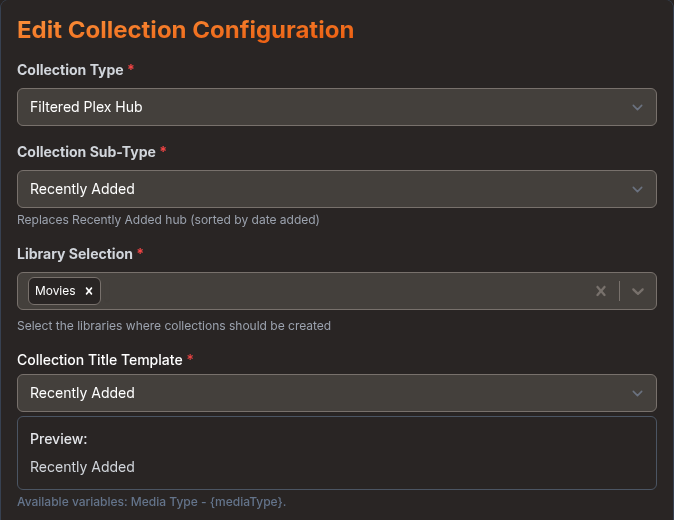
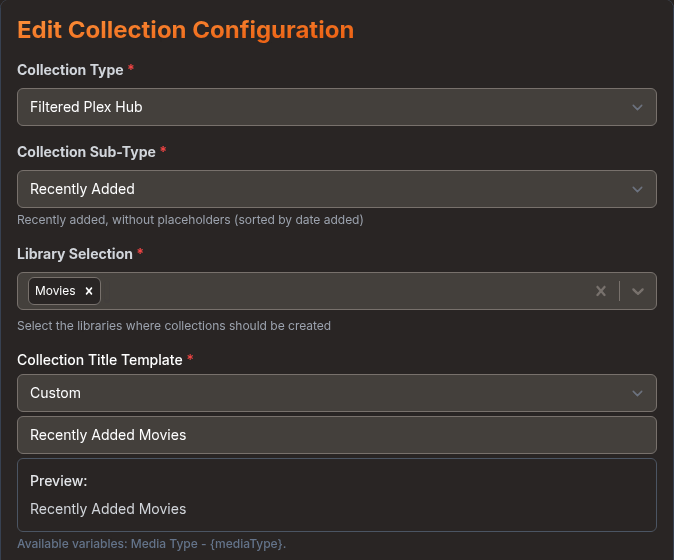
Collections: intended behaviour after the collections sweep (shuffle at end of sync, Target User scope, separator uploads, date-range rules, TV Recently Released, poster rebuild triggers); new filtered hub screenshot

Changed region(s): [[0.0, 0.0308, 0.997, 0.9846]]

diff --git a/docs/Collections.md b/docs/Collections.md
@@ -13,18 +13,20 @@ Collection features added in this fork. For the base collection behaviour, see t
 
 | Preset | Source | Media | Max Items |
 |--------|--------|-------|-----------|
-| Trending Movies Today | TMDB | Movies | 20 |
-| Trending TV Today | TMDB | TV | 20 |
-| TMDB Top Rated Movies | TMDB | Movies | 50 |
-| TMDB Top Rated TV | TMDB | TV | 50 |
-| IMDb Top 250 | IMDb | Movies | 250 |
-| IMDb Most Popular Movies | IMDb | Movies | 30 |
-| IMDb Most Popular TV | IMDb | TV | 30 |
-| Upcoming Movies | Coming Soon | Movies | 30 |
-| Upcoming TV | Coming Soon | TV | 30 |
-| Trakt Trending Movies | Trakt | Movies | 20 |
-| Trakt Trending TV | Trakt | TV | 20 |
-| Netflix Top 10 Movies | Networks | Movies | 10 |
+| Trending Movies Today | TMDB Lists | Movies | 20 |
+| Trending TV Today | TMDB Lists | TV | 20 |
+| TMDB Top Rated Movies | TMDB Lists | Movies | 50 |
+| TMDB Top Rated TV | TMDB Lists | TV | 50 |
+| IMDb Top 250 | IMDb Lists | Movies | 250 |
+| IMDb Most Popular Movies | IMDb Lists | Movies | 30 |
+| IMDb Most Popular TV | IMDb Lists | TV | 30 |
+| Upcoming Movies | Coming Soon (TMDB Coming Soon) | Movies | 30 |
+| Upcoming TV | Coming Soon (TMDB Coming Soon) | TV | 30 |
+| Trakt Trending Movies | Trakt Lists | Movies | 20 |
+| Trakt Trending TV | Trakt Lists | TV | 20 |
+| Netflix Top 10 Movies | Networks Top 10 | Movies | 10 |
+
+Applying a preset selects only libraries that match its media type: Movies libraries for the Movies presets, TV libraries for the TV ones.
 
 Presets turn on **Server Owner Home** and **Library Recommended**, with **Users Home** left off. Coming Soon presets also turn on placeholder creation. Trakt presets stay hidden until you've configured Trakt credentials. You can edit every field after choosing a preset.
 
@@ -51,15 +53,17 @@ The **Library Values** panel lists every value found in that library. Everything
 - **Exclude mode** (the default): untick anything you don't want.
 - **Include mode**: click **Select None**, then tick only the values you want. The panel changes to **Creating only checked**.
 
-**Select All** switches back to exclude mode with nothing excluded. Change the library or subtype and the list starts again with everything ticked. The running count shows how many collections it'll create, and any value matching an existing Plex collection gets an **Existing collection** badge.
+**Select All** switches back to exclude mode with nothing excluded. Change the library or subtype and the list starts again with everything ticked. The running count reads "{count} collections will be created", and any value whose collection name matches an existing Plex collection gets an **Existing collection** badge.
+
+The value list only appears when one library is selected. With more than one library, your selection applies to every library. In the default exclude mode, that means every value is created in each library.
 
 ### Separators
 
-The **Use Separator** checkbox adds a separator collection above the group, such as "Genre Collections". It sorts directly before the collections in that group.
+The **Use Separator** checkbox adds a separator collection for the group, named **Genre Collections** (or Decade, Resolution, Content Rating) unless you change the **Separator Title**. While the group sits in the A-Z section, the separator sorts at the top of that section and the genre collections sort under their own names. Once you promote, demote or drag the group, the separator and its collections are kept together, with the separator first.
 
 ### Visibility
 
-Users Home, Server Owner Home and Library Recommended are off by default. The collections still appear in the Collections tab, without filling up the home screens.
+Users Home, Server Owner Home and Library Recommended are off by default, and so is **Auto-generate Collection posters**. The collections still appear in the Collections tab, without filling up the home screens. As the hint under the boxes says, "This applies to all collections generated by this configuration."
 
 ---
 
@@ -67,34 +71,35 @@ Users Home, Server Owner Home and Library Recommended are off by default. The co
 
 These are empty collections with a title card poster, useful for breaking up long collection rows.
 
-Select **Plex Library** > **Separator**. There are three fields:
+Select **Plex Library** > **Separator**, then a library. The form has:
 
-- **Separator Title**: shown on the poster and used as the collection name
-- **Posters**: upload your own, or leave it blank to use the generated template
-- **Visibility**: the standard visibility checkboxes
+- **Separator Title**: shown on the poster and used as the collection name.
+- **Posters**: leave **Auto-generate Collection posters** ticked to use the built-in Separator template, or pick another template. Untick it to upload your own poster instead.
+- **Visibility**: the standard visibility checkboxes.
+- **Time Restrictions**: optional, as for other collections.
 
 ---
 
 ## Label Collections
 
-Select **Plex Library** > **Label**, then choose a library and a **Plex Label**. Agregarr includes only items from that library carrying the label, and refreshes the membership on every sync. Each config supports one label.
+Select **Plex Library** > **Label**, then choose a library and a **Plex Label**. Agregarr includes only items from that library carrying the label, and refreshes the membership on every sync. Each config supports one label. If you select more than one library, the label list comes from the first one.
 
 ---
 
 ## Per-User Collection Targeting
 
-The **Target User** dropdown in the collection config lists every Plex user. Once you select one, label filters hide the collection from other users while they're browsing the library.
+The **Target User** dropdown lists you, marked Owner, and every Plex user the server is shared with who has an email address. Managed Plex Home users without an email may not appear. Once you select one, label filters hide the collection from other users while they're browsing the library.
 
 Default: "None (visible to all users)."
 
 !!! note "The server owner always sees every collection"
     Targeting works by adding label filters to the other users' sharing restrictions in Plex. Those restrictions only exist for accounts the server is shared with. The server owner's own account doesn't have any. That's how Plex works, and Agregarr can't change it: if you watch as the owner, you'll see every targeted collection, whoever it was meant for.
 
-    The workaround is to not watch as the owner. Add a managed user to your Plex Home, or use a second Plex account the server is shared with, and do your watching there. That user gets filtered like everyone else, so it only sees its own collections.
+    The workaround is to not watch as the owner. Use a second Plex account the server is shared with, and do your watching there. That account gets filtered like everyone else, so it only sees collections meant for everyone or targeted at it. A managed Plex Home user works too, as long as it appears in the **Target User** dropdown.
 
-Setting a Target User while **Users Home** is on shows a warning about Home visibility.
+If **Users Home** is also ticked, a warning explains that Plex Media Server versions before 1.43.1 ignore label restrictions on Home, so other users may still see the collection there.
 
-Target User works with standard collections, multi-source collections, and the Recently Added and Recently Released hubs. It doesn't affect Auto Franchise, Auto Director, Auto Actor, Library Essentials, separator, or Overseerr collections. Those manage their own labels.
+Target User works with standard collections, multi-source collections, Label collections, and Filtered Plex Hubs. It isn't shown for Auto Franchise, Auto Director, Auto Actor, Library Essentials, separator or Overseerr collections, which manage their own labels. It also isn't shown for Plex default hubs or imported Plex collections.
 
 ---
 
@@ -102,8 +107,10 @@ Target User works with standard collections, multi-source collections, and the R
 
 The **Sort Title** field controls the collection's position in Plex. It appears when you edit a collection from the Library, Home, or Recommended pages. You won't see it from All Collections, on standalone separators, or on Recommended when the collection also appears on Home. In that last case, Home controls the order.
 
-- A padded prefix such as `!020_` puts the collection at that position. Agregarr reads the number, so promoting, demoting, and dragging still work.
+- Type a rank such as `!020_` to move a promoted collection to that place in the promoted list. If there are fewer collections than that, it goes to the end. Agregarr then rewrites the sort title to match, so promoting, demoting and dragging keep working.
 - Promoted collections get a sort title containing `!`, a three-digit position, an underscore, and the name. For example, `!001_IMDb Popular`.
+- If you type a value starting with `!` on an A-Z collection, Agregarr asks after saving whether to promote it. Choosing **Keep in A-Z** discards the typed Sort Title.
+- For configs that create many collections at once (Library Essentials, Auto Director, Auto Actor, Auto Franchise), the Sort Title becomes the shared base for all of them, with each collection's own name added after it.
 - Clear the field to switch back to automatic positioning.
 
 **Collection Sort Format** under **Settings** > **Plex** controls how a leading "The", "A", or "An" is sorted. The options are **Off (sort exactly as typed)**, **Strip (e.g. "The Accountant" → "Accountant")**, and **Move to End (e.g. "The Accountant" → "Accountant, The")**. This changes the sort title only. The collection name stays as it is.
@@ -119,14 +126,14 @@ Choose **Filtered Plex Hub**, then pick a subtype. Each subtype creates a smart 
 | Subtype | What it lists |
 |---------|---------------|
 | Recently Added | Items by date added |
-| Recently Released | Items by release date |
+| Recently Released | Movies by release date. TV shows by their most recently aired episode, leaving out future air dates |
 | Recently Added Episodes | Shows by their most recently added episode (TV libraries only) |
 | Recently Added Episodes (Individual) | The episodes themselves, by date added (TV libraries only) |
 | Recently Released Episodes (Individual) | The episodes themselves, by air date, newest first (TV libraries only) |
 
-Recently Released Episodes (Individual) never includes episodes with a future air date. Both Individual hubs also leave out shows carrying the `trailer-placeholder` label.
+Recently Released Episodes (Individual) leaves out episodes with a future air date or no air date. Both Individual hubs also leave out shows carrying the `trailer-placeholder` label.
 
-The two Individual hubs don't use collection exclusions or automatic posters. **Label Exclusion** isn't available for Filtered Plex Hub collections.
+The two Individual hubs don't offer **Collection Mutual Exclusion** or automatic posters. The form hides both options for them. **Label Exclusion** isn't available for any Filtered Plex Hub.
 
 ### Replacing Plex's Recently Added hub
 
@@ -150,9 +157,9 @@ These options show when you add or edit a collection. The examples below use **F
 
 ### Collection Title Template
 
-Sets the name shown in Plex. The dropdown contains presets for the selected type. Pick **Custom** to enter your own text, or separate movie and TV values if you selected both library types. `{mediaType}` becomes "Movie" or "TV Show". `{mediaType}s` uses the plural. **Preview** shows the resulting name for each selected library. If Agregarr can't fetch the preview, it shows "Preview unavailable".
+Sets the name shown in Plex. The dropdown contains presets for the selected type. Pick **Custom** to type your own name. You get a box for each library type you selected: one for movies, one for TV, or both. `{mediaType}` becomes "Movie" or "TV Show". `{mediaType}s` uses the plural. **Preview** shows the name for each selected library, or a single preview when one library is selected. If Agregarr can't fetch the preview, it shows "Preview unavailable".
 
-A template is required, so the first preset is selected by default. Agregarr rewrites the name on every sync. Changing the template will rename the existing Plex collection.
+A template is required, so the first preset is selected by default. A saved name that isn't one of the presets opens under **Custom**. Agregarr rewrites the name on every sync. Changing the template will rename the existing Plex collection.
 
 ### Visibility
 
@@ -162,38 +169,42 @@ With none ticked, the form warns "No visibility options selected. Collection wil
 
 ### Shuffle position on Home/Recommended screens
 
-Off by default. When ticked, the collection swaps positions with other ticked collections in the same library. Unticked collections stay where they are.
+Off by default. When ticked, the collection swaps Home positions with every other ticked item in the same library, including Plex default hubs and existing Plex collections. Unticked items stay where they are.
 
-- It only moves collections that already have a Home position.
-- It needs at least two ticked collections in a library. With fewer than two, nothing moves.
-- The shuffle runs at the end of each full sync. It also runs from the **Randomize Home Order** job on the Jobs page, daily at 6am by default. Agregarr skips it while a sync is running.
+- It only moves items that already have a Home position.
+- It needs at least two ticked items in a library. With fewer than two, nothing moves.
+- The shuffle runs at the end of each full sync. It also runs from the **Randomize Home Order** job on the Jobs page, daily at 6am by default. Agregarr skips the job while a sync is running.
 
 ### Max Items
 
-Sets the maximum number of items the collection can hold. New collections start at 30. The allowed range is 1 to 9999, and leaving the box blank saves 50. For a Filtered Plex Hub, Agregarr writes the limit into the hub itself. That's why the form adds "(applies to smart collection)". Other types order the list first (see **Item Order**), then cut it to this number.
+Sets the maximum number of items the collection can hold. New collections start at 30. The allowed range is 1 to 9999, and leaving the box blank saves 50. For a Filtered Plex Hub, Agregarr writes the limit into the hub itself. That's why the form adds "(applies to smart collection)". Other types order the list (see **Item Order**) and then cut it to this number. Some sources stop fetching once they have enough items, so the order applies to what was fetched.
 
 ### Posters
 
-**Auto-generate Collection posters** builds a poster from the collection name and its items during sync. It's enabled for new collections. It's disabled for imported Plex collections and the automatic Genre, Decade, Resolution and Content Rating collections. Agregarr only rebuilds the poster when the template, name or items change.
+**Auto-generate Collection posters** builds a poster from the collection name and its items during sync. It's enabled for new collections. It's disabled for imported Plex collections and the automatic Genre, Decade, Resolution and Content Rating collections. Switching from Genre, Decade, Resolution or Content Rating to another Plex Library sub-type ticks it again. If you change the source instead, tick it yourself.
 
-**Select Template** appears when auto-generate is ticked, with the default template already selected. Untick auto-generate to show one upload slot per library instead.
+Agregarr only rebuilds the poster when something on it would change: the template or its design, the collection name, or which items fill the poster's grid. Reordering those same items, changes further down the list, or a new TMDB photo for an actor or director don't trigger a rebuild, unless your poster template shows the item count. In that case any change to the number of items rebuilds it. If you pick a different poster in Plex while **Auto-generate Collection posters** is ticked, Agregarr puts its own poster back on the next sync.
+
+**Select Template** appears when auto-generate is ticked, with the default template already selected. Separators default to the built-in Separator template. Untick auto-generate to show one upload slot per library instead.
 
 !!! note "Episode hubs don't get an automatic poster"
     **Recently Added Episodes (Individual)** and **Recently Released Episodes (Individual)** don't offer **Auto-generate Collection posters**. The poster section has upload slots instead. Upload a poster if you want one.
 
 ### Apply item overlays during sync
 
-Off by default, and always on for Coming Soon. Overlays normally reach items when the overlay job runs, daily at 3am by default. With this ticked, Agregarr applies overlays to this collection's items straight after the collection sync. It only touches items in that collection and needs overlay templates configured for the library. See [Overlays](Overlays.md).
+Off by default, and always on for Coming Soon. Overlays normally reach items when the overlay job runs, daily at 3am by default. New items also get overlays from **Overlay Quick Sync**, which runs every 30 minutes by default. With this ticked, Agregarr applies overlays to this collection's items straight after the collection sync. It only touches items in that collection and needs overlays enabled for that library on the Overlays page. See [Overlays](Overlays.md).
 
 ### Wallpapers and Theme
 
-There are three separate tick boxes, all off by default: **Custom Wallpaper**, **Custom Summary** and **Custom Theme Music**. Ticking one shows its input. Wallpaper and theme uploads need a library selected first.
+There are three separate tick boxes, all off by default: **Custom Wallpaper**, **Custom Summary** and **Custom Theme Music**. **Sort Title** appears between **Custom Summary** and **Custom Theme Music**. Ticking one shows its input. Wallpaper and theme uploads need a library selected first.
 
 - Wallpaper: JPEG, PNG or WebP, up to 10MB, one per library.
 - Summary: free text, written to the Plex collection description.
 - Theme music: MP3, WAV, FLAC, OGG, AAC or M4A, up to 10MB, one per library.
 
-Agregarr applies them on every sync but doesn't upload unchanged files again. Untick **Custom Wallpaper** or **Custom Theme Music**, or remove the file, and Agregarr removes the wallpaper or theme from the Plex collection on the next sync. It only does that while Plex still shows the one Agregarr uploaded. If you've picked a different one in Plex since, it stays.
+Agregarr applies them on every sync but doesn't upload unchanged files again. While **Custom Wallpaper** or **Custom Theme Music** is ticked, Agregarr puts its file back if you choose a different one in Plex. While **Custom Summary** is ticked, Agregarr writes the summary on every sync, so edits made in Plex are overwritten.
+
+Untick **Custom Wallpaper** or **Custom Theme Music**, or remove the file, and Agregarr removes the wallpaper or theme from the Plex collection on the next sync. It only does that while Plex still shows the one Agregarr uploaded. If you've picked a different one in Plex since, it stays.
 
 Unticking **Custom Summary** stops Agregarr setting the summary. The text stays in Plex, so clear it there if you want it gone.
 
@@ -201,24 +212,24 @@ Unticking **Custom Summary** stops Agregarr setting the summary. The text stays 
 
 **Always Active** is ticked by default. Untick it to limit when the collection is active:
 
-- **Date Ranges** use DD-MM, include both end days and can cross the new year (for example 05-12 to 26-01).
-- **Days of the Week** limit it to selected days. If both are set, both must match.
+- **Date Ranges** use DD-MM, include both end days and can cross the new year (for example 05-12 to 26-01). A range needs both a start and an end, such as 5-12 or 05-12, or the form won't save. Empty rows are dropped when you save.
+- **Days of the Week** limit it to selected days. All seven are ticked by default, and at least one must stay ticked. If both are set, both must match.
 
-Agregarr checks the restrictions whenever the collection syncs, using the server's clock. A collection can therefore lag its window by up to one sync interval. Outside the window, **Remove from Plex when inactive** deletes the Plex collection. Otherwise, the collection stays and uses its inactive visibility settings, which default to **Library Recommended** only.
+Agregarr checks the restrictions whenever the collection syncs, using the server's clock. A collection can therefore lag its window by up to one sync interval. Outside the window, **Remove from Plex when inactive** deletes the Plex collection. Otherwise, the collection stays and uses its inactive visibility settings, which default to **Library Recommended** only. The inactive visibility boxes only appear while **Remove from Plex when inactive** is unticked. That option isn't offered for imported Plex collections or default Plex hubs.
 
 Unticking **Always Active** without adding a date range or changing a day box leaves the collection active every day.
 
 ### Collection Mutual Exclusion
 
-Tick **Enable collection exclusion**, then select other collections from the same library. Items in those collections are excluded from this one. This section only appears when the library has other collections available to select.
+Tick **Enable collection exclusion**, then pick from **Select collections to exclude items from**. The list shows other collections in the libraries this collection uses. Items in those collections are left out of this one. The section doesn't appear for Overseerr Users, TMDB Auto Franchise, Actors, Directors, or the Genre, Decade, Resolution and Content Rating collections, and those can't be picked as exclusions either. It also doesn't appear when there's nothing to pick.
 
-At sync time, Agregarr reads the other collection's current contents from Plex. That collection must already exist and have synced. If Plex can't find it, Agregarr skips it and continues the sync.
+At sync time, Agregarr reads the other collection's current contents from Plex. That collection must already exist and have synced. If Plex can't find it, Agregarr skips it and continues the sync. Collections sync in list order, so if the excluded collection syncs after this one, Agregarr uses what it held after its previous sync.
 
 Filtered Plex Hubs sync after all other collections. They apply exclusions as a Plex filter using the other collection's title. The two Individual episode hubs don't offer exclusions.
 
 ### Item Order and Custom sync timing
 
-**Item Order** defaults to "Default order (as provided by source)" and isn't shown for Filtered Plex Hubs. Agregarr applies the order before **Max Items** cuts the list. **Enable custom sync timing** (under **Time Restrictions**) isn't shown for Filtered Plex Hubs either. For other types, see [Item Order](#item-order) and [Cycle Lists](Cycle-Lists.md).
+**Item Order** defaults to "Default order (as provided by source)". It isn't shown for Filtered Plex Hubs, and TMDB Advanced Filters has its own sort options instead. Agregarr applies the order before **Max Items** cuts the list. **Enable custom sync timing** sits under **Custom Sync Schedule** at the bottom of **Time Restrictions**. It isn't shown for Filtered Plex Hubs or imported Plex collections. For other types, see [Item Order](#item-order) and [Cycle Lists](Cycle-Lists.md).
 
 Also see [Sort Title](#sort-title) and [Label Exclusion](#label-exclusion).
 
@@ -242,13 +253,13 @@ Items keep their order from the TVDB list. Movie libraries take the movies, whil
 
 ### Random Lists
 
-Letterboxd, Trakt, IMDb, and TMDB each have a **Random Lists** subtype. During a single sync, separate random-list collections won't choose the same list while unused lists are still available.
+Letterboxd, Trakt, IMDb, and TMDB each have a **Random Lists** subtype. Letterboxd and TMDB random lists only work in movie libraries. During a single sync, separate random-list collections won't choose the same list while unused lists are still available.
 
-To supply your own pool or remove lists from rotation, edit the source file in the config folder: `random-lists/trakt.txt`, `random-lists/tmdb.txt`, `random-lists/imdb.txt` or `random-lists/letterboxd.txt`. Set `enabled=true`, then add one URL per line for the lists you want to use. Add `exclude=URL` lines for any lists you want kept out.
+To use your own pool, edit the source file in the config folder (`random-lists/trakt.txt`, `random-lists/tmdb.txt`, `random-lists/imdb.txt` or `random-lists/letterboxd.txt`). Set `enabled=true` and list one URL per line. The file starts with example URLs that are active once enabled, so delete any you don't want. To keep a list out of rotation, add an `exclude=URL` line. This works even when `enabled` is false, and it also applies to the lists Agregarr finds by itself.
 
 ### Dynamic title prefix
 
-A prefix box appears when the title template is **Dynamic Title from Random List** or **Dynamic Title from Active Source**. Its text goes in front of the generated title. For example, a prefix containing an emoji and a list titled "Musical" produces the emoji, a space, then "Musical".
+A prefix box appears when the title template is **Dynamic Title from Random List** or **Dynamic Title from Active Source**. Its text goes in front of the generated title. Agregarr puts a space between the prefix and the title, so don't end the prefix with a space. For example, a prefix containing an emoji and a list titled "Musical" produces the emoji, a space, then "Musical".
 
 ### Item Order
 
@@ -273,15 +284,17 @@ You won't see this option for Filtered Plex Hub, Auto Director, or Auto Actor co
 
 ### Minimum IMDb votes
 
-Under **Grab Missing Items**, **Minimum IMDb votes** appears beside **Minimum IMDb rating**. It defaults to 0, meaning there's no limit. Once set, items without IMDb vote data are skipped. Placeholder filters don't include this field.
+Under **Grab Missing Items**, **Minimum IMDb votes** appears below **Minimum IMDb rating**. It defaults to 0, meaning there's no limit. Once set, items without IMDb vote data are skipped. Turning off Grab Missing Items clears the value. Placeholder filters don't include this field.
 
 ---
 
 ## Smart Collection Sort
 
-Tick **Create Smart Collection** to make a smart collection for the viewing user. **Filter to Unwatched Items Only** and **Smart Collection Sort Order** then appear. The unwatched filter is a separate checkbox, on by default.
+Under **Smart Collection**, tick **Create Smart Collection** to make a smart collection for the viewing user. **Filter to Unwatched Items Only** and **Smart Collection Sort Order** then appear. The unwatched filter is a separate checkbox, on by default.
 
-There are 31 sort options, including **Last Episode Added (Newest First)**, which uses each show's newest Plex episode.
+Smart collections aren't available for Filtered Plex Hub, Auto Franchise, Auto Director, Auto Actor or Library Essentials collections.
+
+There are 31 sort options, including **Last Episode Added (Newest First)**, which uses each show's newest Plex episode. **Last Episode Added (Newest First)** is for TV libraries.
 
 New smart collections use **Release Date (Newest First)** by default.
 
@@ -298,7 +311,7 @@ New smart collections use **Release Date (Newest First)** by default.
 
 This is handy when one Radarr or Sonarr server feeds several Plex libraries.
 
-The same section also has server selection when you've configured two or more servers. **Filter by Tags** appears when the server has tags, with **Tag Filter Mode** set to include or exclude.
+The same section also has server selection when you've configured two or more servers. If you have two or more Radarr or Sonarr servers, choose one under **Radarr Server (Movies)** / **Sonarr Server (TV Shows)** first. The root folder and tag options appear once a server is selected. **Filter by Tags** appears when the server has tags, with **Tag Filter Mode** set to include or exclude.
 
 The **Monitored in Radarr/Sonarr** subtype is described as "Unreleased monitored movies, and shows with an upcoming season premiere".
 
@@ -308,15 +321,15 @@ The **Monitored in Radarr/Sonarr** subtype is described as "Unreleased monitored
 
 ### Skip estimated release dates
 
-Under **Placeholder Creation**, Coming Soon and Multiple Sources collections include **Skip items with an estimated release date**. This leaves out movies that only have a cinema date, where the current date is estimated as the cinema release plus 90 days until TMDB adds a digital or physical release. It's off by default.
+Under **Placeholder Creation**, Coming Soon and Multiple Sources collections include **Skip items with an estimated release date**. It leaves out movies that only have a cinema date so far, whose date is a guess of the cinema release plus 90 days until TMDB lists a digital or physical release. In Multiple Sources it only affects Coming Soon sources. It's off by default.
 
 ---
 
 ## Collection Ownership
 
-Agregarr marks collections it manages with a Plex label beginning with `Agregarr`. If a Plex collection doesn't have one of those labels, Agregarr doesn't treat it as its own. It appears as **Pre-Existing** after **Discover Existing Collections & Hubs**.
+Agregarr treats a Plex collection as its own when it carries a label starting with `Agregarr` (any case) or is linked to one of your Agregarr collections. Anything else shows as **Pre-Existing** after **Discover Existing Collections & Hubs**.
 
-To stop Agregarr ordering, applying visibility to, or changing sort titles on collections created by other tools, add their Plex labels under **Settings** > **General** > **Exclude from Ordering (Plex Label)**. The field accepts a comma-separated list. A collection is excluded when it has an exact matching label, or a label that starts with the listed value followed by an underscore. Matching isn't case-sensitive.
+To stop Agregarr ordering, applying visibility to, or changing sort titles on collections created by other tools, add their Plex labels under **Settings** > **General** > **Exclude from Ordering (Plex Label)**. The field accepts a comma-separated list. A collection is excluded when it has an exact matching label, or a label that starts with the listed value followed by an underscore. Matching isn't case-sensitive. Changes to this field take effect on the next discovery.
 
 ---
 
